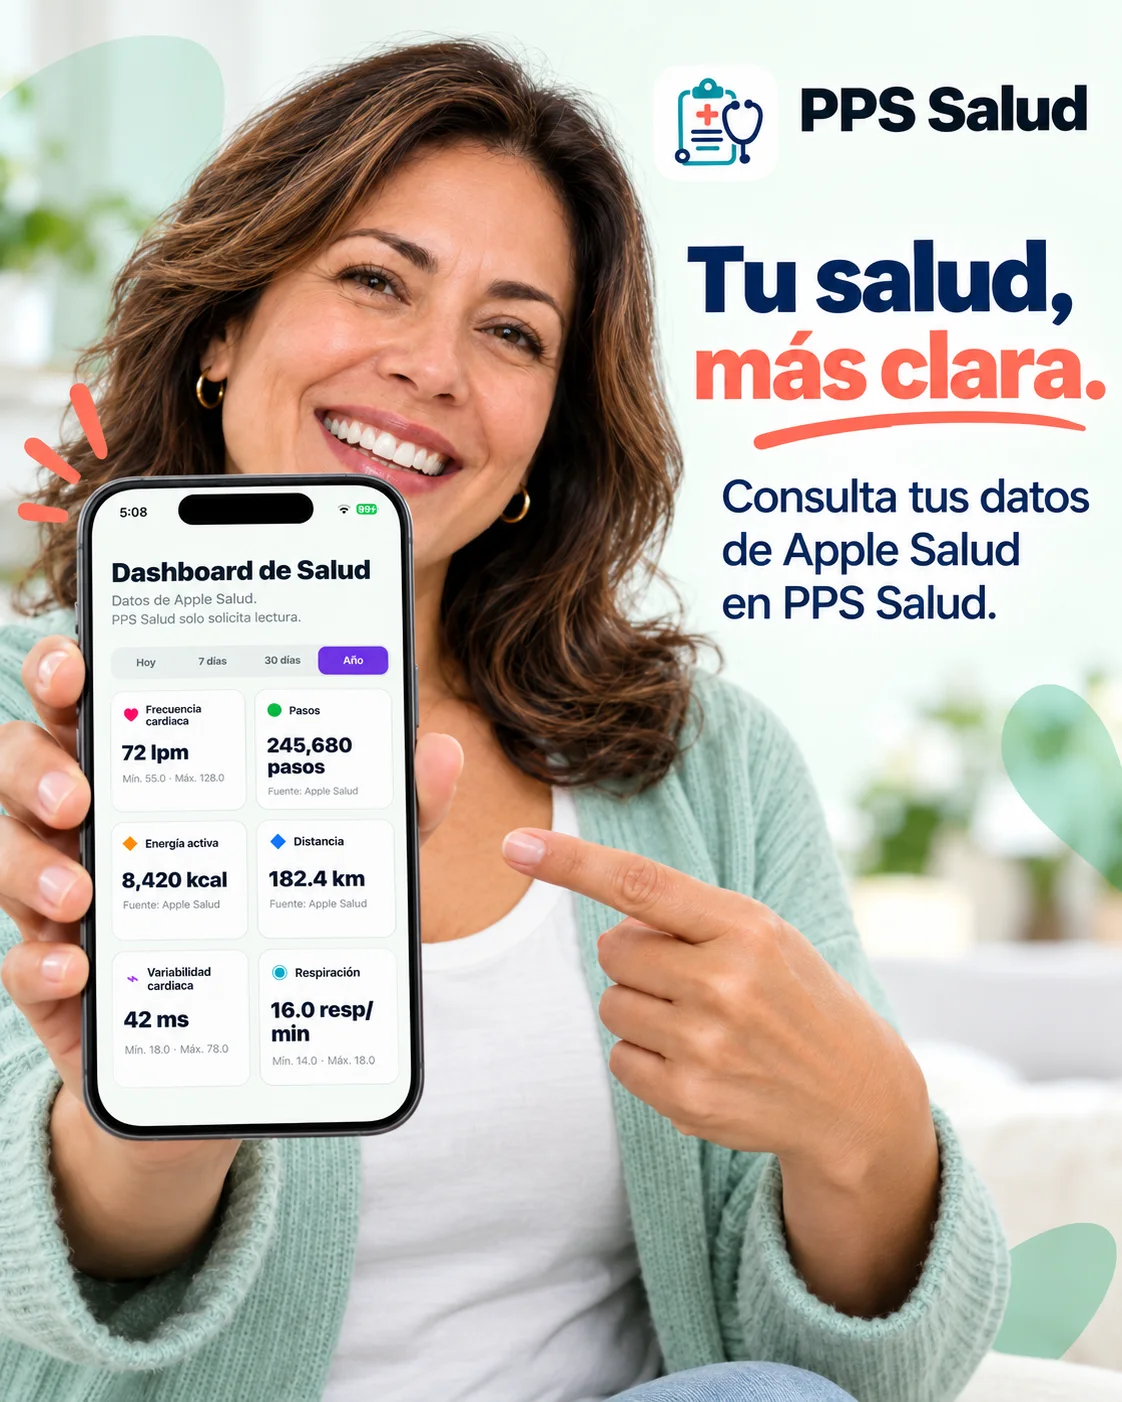
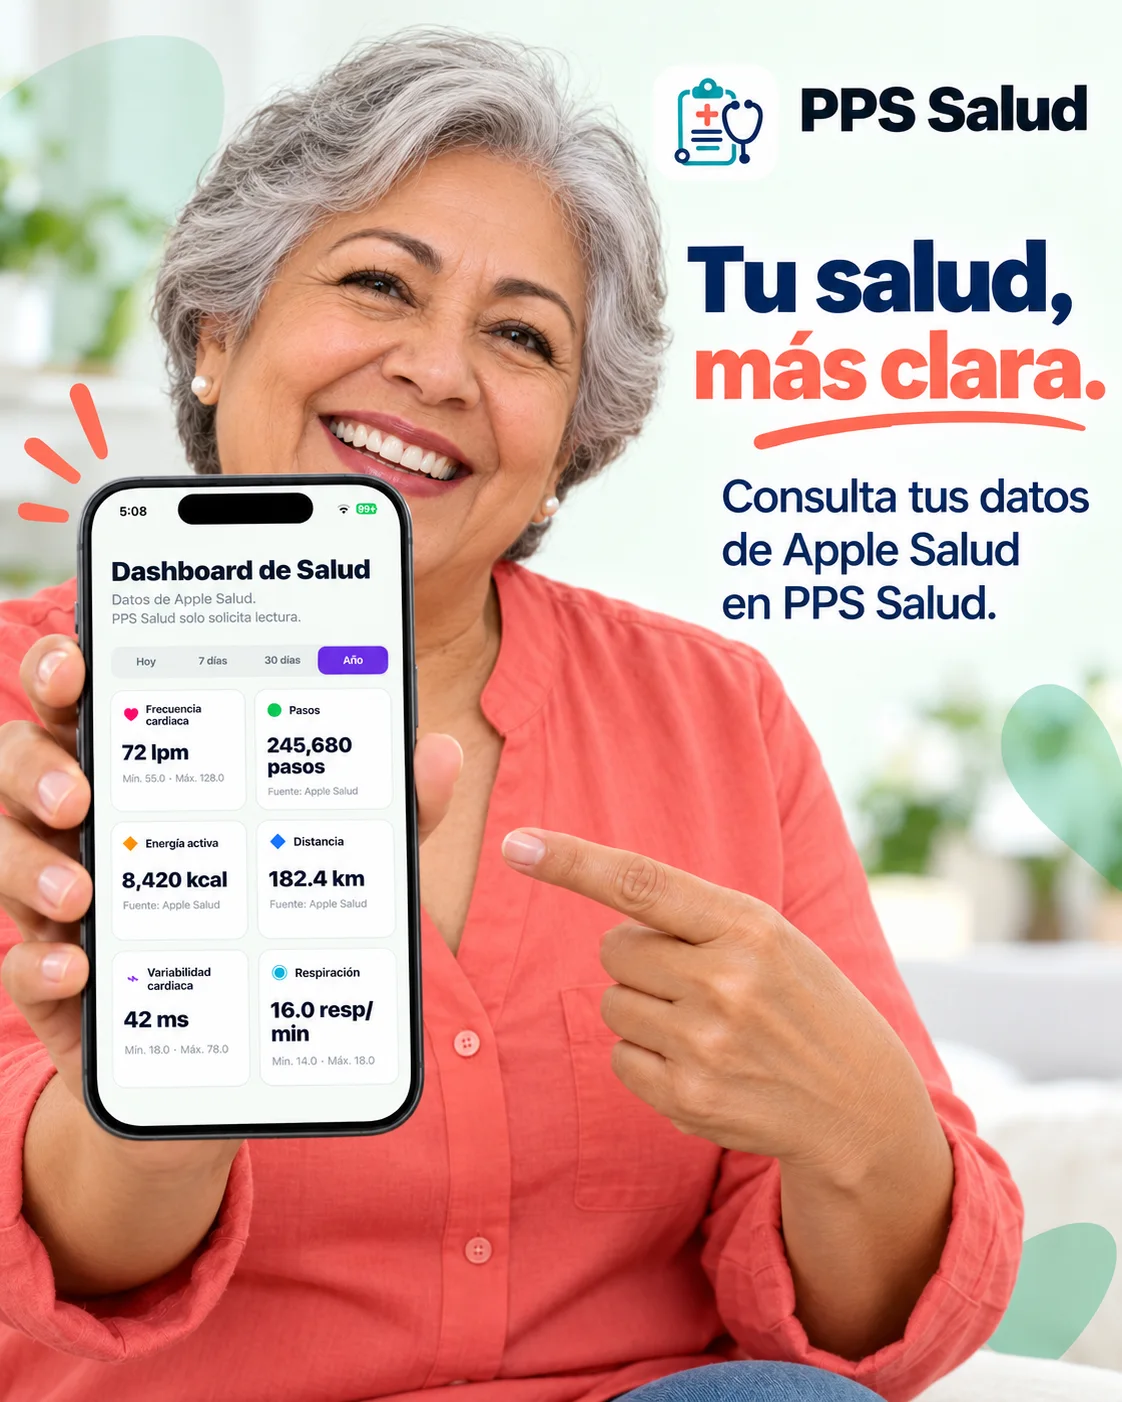
Publica anuncios y pantallas reales de la version 2.0.6

diff --git a/index.html b/index.html
@@ -83,9 +83,14 @@
 <article class="feature"><span class="num">07</span><div><h3>Expediente PDF más completo</h3><p>Incluye medicamentos y apego, datos de Apple Salud o Health Connect, árbol familiar, estudios, documentos, fotografías y enlaces, con mejor distribución para impresión.</p></div></article>
 <article class="feature"><span class="num">08</span><div><h3>Compartir en familia</h3><p>Envía de forma cifrada los expedientes autorizados por correo, WhatsApp, Archivos u otras aplicaciones, y actualiza la información faltante o modificada.</p></div></article>
 <article class="feature"><span class="num">09</span><div><h3>Transferencia directa entre teléfonos</h3><p>Reemplaza o sincroniza cambios en ambos sentidos entre iPhone y Android mediante conexión local, sin depender de un servidor.</p></div></article>
+</div><div class="release-ads">
+<figure><img src="assets/novedades-2.0.6/anuncio-arbol-familiar.webp" alt="Familia consultando antecedentes familiares en PPS Salud" loading="lazy"><figcaption>Árbol y antecedentes familiares</figcaption></figure>
+<figure><img src="assets/novedades-2.0.6/anuncio-medicamentos.webp" alt="Persona consultando medicamentos y próximas tomas en PPS Salud" loading="lazy"><figcaption>Medicamentos y seguimiento</figcaption></figure>
+<figure><img src="assets/novedades-2.0.6/anuncio-apple-salud.webp" alt="Persona consultando datos autorizados de salud en PPS Salud" loading="lazy"><figcaption>Datos de salud autorizados</figcaption></figure>
+<figure><img src="assets/novedades-2.0.6/anuncio-sincronizacion.webp" alt="Padre e hija compartiendo una copia cifrada entre teléfonos" loading="lazy"><figcaption>Copias entre teléfonos</figcaption></figure>
 </div></div></section>
 <section class="section privacy" id="privacidad"><div class="wrap privacy-grid"><div class="privacy-intro"><div class="head"><span class="kicker">Privacidad desde el diseño</span><h2>Tu expediente es tuyo.</h2><p>PPS Salud funciona como organizador personal. Tú registras la información y decides cuándo y con quién compartirla.</p></div><div class="campaign-shot privacy-shot"><img src="assets/campana-06-privacidad.png" alt="Privacidad de la información en PPS Salud" loading="lazy"></div></div><div class="privacy-card"><h3>Control claro</h3><ul><li>La información permanece cifrada en tu dispositivo.</li><li>PPS Salud no almacena expedientes en servidores propios.</li><li>Puedes generar un respaldo antes de cambiar de equipo.</li><li>El PDF incluye únicamente las secciones que elijas.</li></ul></div></div></section>
-<section class="section screens"><div class="wrap"><div class="head"><span class="kicker">La aplicación real</span><h2>Pantallas claras, información identificada.</h2><p>Ejemplos actuales de PPS Salud con información demostrativa. Las imágenes acompañan la explicación sin sustituirla.</p></div><div class="screen-row"><figure><img src="assets/perfiles-familia.png" alt="Perfiles familiares y ficha de emergencia" loading="lazy"><figcaption>Perfiles familiares separados</figcaption></figure><figure><img src="assets/medicamentos-alertas.png" alt="Medicamentos y alertas" loading="lazy"><figcaption>Medicamentos y próximas tomas</figcaption></figure><figure><img src="assets/estudios-organizados.png" alt="Estudios organizados" loading="lazy"><figcaption>Estudios y documentos por fecha</figcaption></figure><figure><img src="assets/compartir-expediente.png" alt="Compartir expediente en PDF" loading="lazy"><figcaption>Expediente PDF para compartir</figcaption></figure></div></div></section>
+<section class="section screens"><div class="wrap"><div class="head"><span class="kicker">La aplicación real</span><h2>Así se ven las nuevas herramientas.</h2><p>Pantallas reales de PPS Salud con nombres e información demostrativa.</p></div><div class="screen-row"><figure><img src="assets/novedades-2.0.6/01-arbol-familiar.webp" alt="Árbol de antecedentes familiares" loading="lazy"><figcaption>Árbol familiar de salud</figcaption></figure><figure><img src="assets/novedades-2.0.6/02-datos-salud.webp" alt="Panel de datos de salud autorizados" loading="lazy"><figcaption>Datos de salud autorizados</figcaption></figure><figure><img src="assets/novedades-2.0.6/03-proximas-tomas.webp" alt="Próximas tomas de medicamentos" loading="lazy"><figcaption>Próximas tomas</figcaption></figure><figure><img src="assets/novedades-2.0.6/04-historial-apego.webp" alt="Historial y seguimiento de tomas" loading="lazy"><figcaption>Historial de apego</figcaption></figure><figure><img src="assets/novedades-2.0.6/05-exportar-familia.webp" alt="Opciones para exportar una copia familiar" loading="lazy"><figcaption>Exportar en familia</figcaption></figure><figure><img src="assets/novedades-2.0.6/06-enviar-telefono.webp" alt="Enviar una copia cifrada a otro teléfono" loading="lazy"><figcaption>Enviar a otro teléfono</figcaption></figure><figure><img src="assets/novedades-2.0.6/07-recuperar-telefono.webp" alt="Recuperar una copia cifrada en otro teléfono" loading="lazy"><figcaption>Recuperar en otro teléfono</figcaption></figure><figure><img src="assets/novedades-2.0.6/08-recibir-telefono.webp" alt="Recepción de una copia cifrada en otro teléfono" loading="lazy"><figcaption>Recibir una copia cifrada</figcaption></figure></div></div></section>
 <section class="section allies" id="aliados"><div class="wrap"><div class="head"><span class="kicker">Aliados de la salud</span><h2>Ayúdanos a acercar PPS Salud a más personas.</h2><p>Médicos, laboratorios y farmacias pueden dar a conocer una herramienta que ayuda a organizar citas, estudios, medicamentos y registros de tomas, sin sustituir la atención profesional.</p></div><div class="allies-grid"><figure class="ally-card"><img src="assets/anuncio-medicos.png" alt="Anuncio de PPS Salud dirigido a médicos" loading="lazy"><figcaption>Para médicos</figcaption></figure><figure class="ally-card"><img src="assets/anuncio-laboratorios.png" alt="Anuncio de PPS Salud dirigido a laboratorios" loading="lazy"><figcaption>Para laboratorios</figcaption></figure><figure class="ally-card"><img src="assets/anuncio-farmacias.png" alt="Anuncio de PPS Salud dirigido a farmacias" loading="lazy"><figcaption>Para farmacias</figcaption></figure></div></div></section>
 <section class="download-compact" id="descargar"><div class="download-compact-inner"><div><span class="kicker">iPhone y Android</span><h2>Descarga PPS Salud en tu dispositivo.</h2><p>Consulta en una sola página las opciones disponibles y los enlaces oficiales de cada tienda.</p></div><a class="download-compact-cta" href="/descargar.html">Ver opciones de descarga</a></div><div class="download-links"><a href="soporte.html">Soporte</a><a href="privacidad.html">Privacidad</a><a href="terminos.html">Términos</a><a href="Manual-de-usuario-PPS-Salud.pdf">Manual</a><a href="suscripciones/">Planes</a><a href="https://www.facebook.com/ppssalud" target="_blank" rel="noopener">Facebook</a></div></section>
 </main><footer>© 2026 PPS Salud. Herramienta personal para organizar información; no diagnostica, prescribe ni sustituye la atención médica profesional.</footer>
